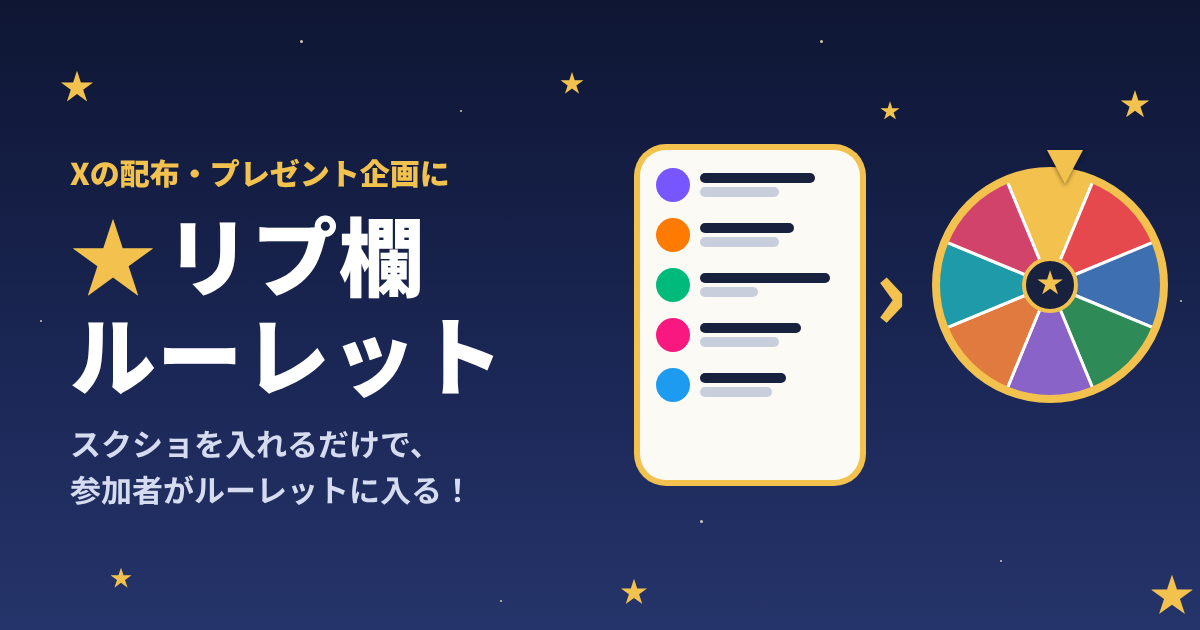
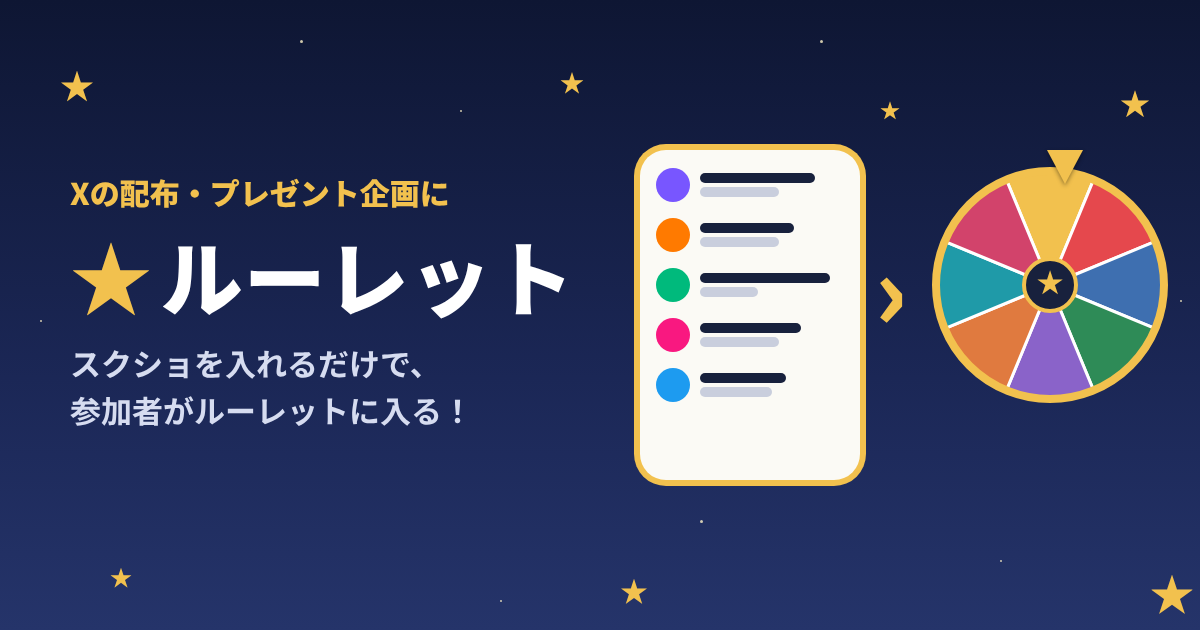
Add files via upload

Changed region(s): [[0.0617, 0.2413, 0.4317, 0.7238], [0.0617, 0.754, 0.4008, 0.8143], [0.4317, 0.3921, 0.4933, 0.5127]]

diff --git a/index.html b/index.html
@@ -35,10 +35,12 @@
     --ok: #6FD39A; --wait: #FFB25C; --wait-soft: #3D2A14; --error: #FF8A80; --error-soft: #3E1D20; --pink: #FF7FA3; color-scheme: dark; }
   * { box-sizing: border-box; }
   html { background: var(--sky-bottom); }
+  .bg { position: fixed; inset: 0; z-index: 0; background-size: cover; background-position: center; background-repeat: no-repeat; }
+  .bg.on::after { content: ""; position: absolute; inset: 0; background: rgba(8,12,30,.25); }
   body { margin: 0; min-height: 100vh; color: var(--ink); background: linear-gradient(180deg, var(--sky-top), var(--sky-bottom));
     font-family: "Hiragino Maru Gothic ProN", "Hiragino Sans", "Noto Sans JP", "Meiryo", sans-serif; line-height: 1.7; -webkit-text-size-adjust: 100%; }
   [hidden] { display: none !important; }
-  main { max-width: 560px; margin: 0 auto; padding: 24px max(16px, env(safe-area-inset-right, 0px)) 80px max(16px, env(safe-area-inset-left, 0px)); display: flex; flex-direction: column; gap: 14px; }
+  main { position: relative; z-index: 1; max-width: 560px; margin: 0 auto; padding: 24px max(16px, env(safe-area-inset-right, 0px)) 80px max(16px, env(safe-area-inset-left, 0px)); display: flex; flex-direction: column; gap: 14px; }
   .head { color: #fff; }
   .head .kicker { font-size: .75rem; font-weight: 800; color: var(--gold); }
   .head h1 { margin: 2px 0 4px; font-size: 1.6rem; line-height: 1.3; }
@@ -102,11 +104,14 @@
   details summary { cursor: pointer; font-weight: 800; font-size: .85rem; color: var(--sub); }
   .toast { position: fixed; left: 50%; bottom: calc(24px + env(safe-area-inset-bottom, 0px)); transform: translateX(-50%); z-index: 30; max-width: calc(100% - 32px); background: #18213D; color: #fff; border: 1px solid rgba(242,193,78,.6); border-radius: 12px; padding: 10px 16px; font-size: .85rem; font-weight: 700; }
   .toast.err { background: #8C1D17; }
-  .foot { text-align: center; font-size: .74rem; color: #C9D1EA; margin: 0; }
+  .foot { text-align: center; font-size: .74rem; color: #fff; margin: 0; text-shadow: 0 1px 3px rgba(0,0,0,.7); }
+  .head { text-shadow: 0 1px 4px rgba(0,0,0,.55); }
+  .bgprev { width: 100%; max-height: 160px; object-fit: cover; border-radius: 10px; border: 1px solid var(--line); }
   @media (prefers-reduced-motion: reduce) { .bar i { transition: none; } }
 </style>
 </head>
 <body>
+<div class="bg" id="bg" aria-hidden="true"></div>
 <main>
   <header class="head">
     <span class="kicker">Xの配布・プレゼント企画に</span>
@@ -166,6 +171,19 @@
     <ol class="wins" id="wins"></ol>
     <div class="btns"><button type="button" class="btn small" id="copy">結果をコピー</button><button type="button" class="btn small" id="post">Xで発表する</button></div>
     <p class="note">発表の文には、当選した人の@IDが入ります。投稿の前に、文を確かめてください。</p>
+  </section>
+
+  <!-- 背景 -->
+  <section class="panel" aria-labelledby="h5">
+    <h2 id="h5">背景の画像</h2>
+    <p class="sub">好きな画像を選ぶと、このページの背景になります。画面を録画して結果を見せるときに使えます。</p>
+    <img class="bgprev" id="bg-prev" alt="いまの背景の画像" hidden>
+    <div class="btns">
+      <label class="btn small" for="bg-file" id="bg-pick">背景の画像を選ぶ</label>
+      <button type="button" class="btn small" id="bg-reset" disabled>元の背景にもどす</button>
+    </div>
+    <input type="file" id="bg-file" accept="image/*" class="vh">
+    <p class="note">画像はこのスマホの中だけに保存します。どこにも送りません。</p>
   </section>
 
   <p class="foot">入れた名前と結果は、このスマホに保存されます（ほかの人には見えません）。</p>
@@ -401,6 +419,40 @@
   async function copy(t) { try { await navigator.clipboard.writeText(t); return true; } catch (e) { try { const ta = mk("textarea"); ta.value = t; ta.style.position = "fixed"; ta.style.opacity = "0"; document.body.appendChild(ta); ta.select(); const ok = document.execCommand("copy"); ta.remove(); return ok; } catch (e2) { return false; } } }
   $("copy").addEventListener("click", async () => toast((await copy(winText())) ? "コピーしました。" : "コピーできませんでした。", false));
   $("post").addEventListener("click", () => { window.open("https://x.com/intent/post?text=" + encodeURIComponent(winText()), "_blank", "noopener"); });
+
+  // ============ 背景の画像 ============
+  const idb = {
+    open() { return new Promise((ok) => { try { const r = indexedDB.open("reply-roulette", 1); r.onupgradeneeded = () => { try { r.result.createObjectStore("kv"); } catch (e) {} }; r.onsuccess = () => ok(r.result); r.onerror = () => ok(null); } catch (e) { ok(null); } }); },
+    async get(k) { const db = await this.open(); if (!db) return null; return new Promise((ok) => { try { const q = db.transaction("kv").objectStore("kv").get(k); q.onsuccess = () => ok(q.result || null); q.onerror = () => ok(null); } catch (e) { ok(null); } }); },
+    async set(k, v) { const db = await this.open(); if (!db) return false; return new Promise((ok) => { try { const tx = db.transaction("kv", "readwrite"); v === null ? tx.objectStore("kv").delete(k) : tx.objectStore("kv").put(v, k); tx.oncomplete = () => ok(true); tx.onerror = () => ok(false); } catch (e) { ok(false); } }); }
+  };
+  function showBg(d) {
+    const bg = $("bg");
+    bg.style.backgroundImage = d ? "url(" + JSON.stringify(d) + ")" : "";
+    bg.classList.toggle("on", !!d);
+    $("bg-prev").hidden = !d; if (d) $("bg-prev").src = d; else $("bg-prev").removeAttribute("src");
+    $("bg-reset").disabled = !d;
+    $("bg-pick").textContent = d ? "背景の画像を変える" : "背景の画像を選ぶ";
+  }
+  // 大きい画像は小さくしてから覚える（長い辺を2000pxまで）
+  async function shrink(file) {
+    const url = URL.createObjectURL(file);
+    try {
+      const img = await new Promise((ok, ng) => { const i = new Image(); i.onload = () => ok(i); i.onerror = ng; i.src = url; });
+      const k = Math.min(1, 2000 / Math.max(img.naturalWidth, img.naturalHeight));
+      const c = document.createElement("canvas"); c.width = Math.round(img.naturalWidth * k); c.height = Math.round(img.naturalHeight * k);
+      c.getContext("2d").drawImage(img, 0, 0, c.width, c.height);
+      return c.toDataURL("image/jpeg", 0.86);
+    } finally { URL.revokeObjectURL(url); }
+  }
+  $("bg-file").addEventListener("change", async (e) => {
+    const f = e.target.files && e.target.files[0]; e.target.value = "";
+    if (!f) return;
+    try { const d = await shrink(f); showBg(d); if (await idb.set("bg", d)) toast("背景を変えました。"); else toast("背景を変えました（このブラウザでは保存できないので、開き直すと元にもどります）。"); }
+    catch (err) { toast("画像を読み込めませんでした。別の画像でお試しください。", true); }
+  });
+  $("bg-reset").addEventListener("click", async () => { showBg(null); await idb.set("bg", null); toast("元の背景にもどしました。"); });
+  idb.get("bg").then((d) => { if (d) showBg(d); });
 
   // ============ そのほか ============
   function twoStep(btn, label2, fn) {
